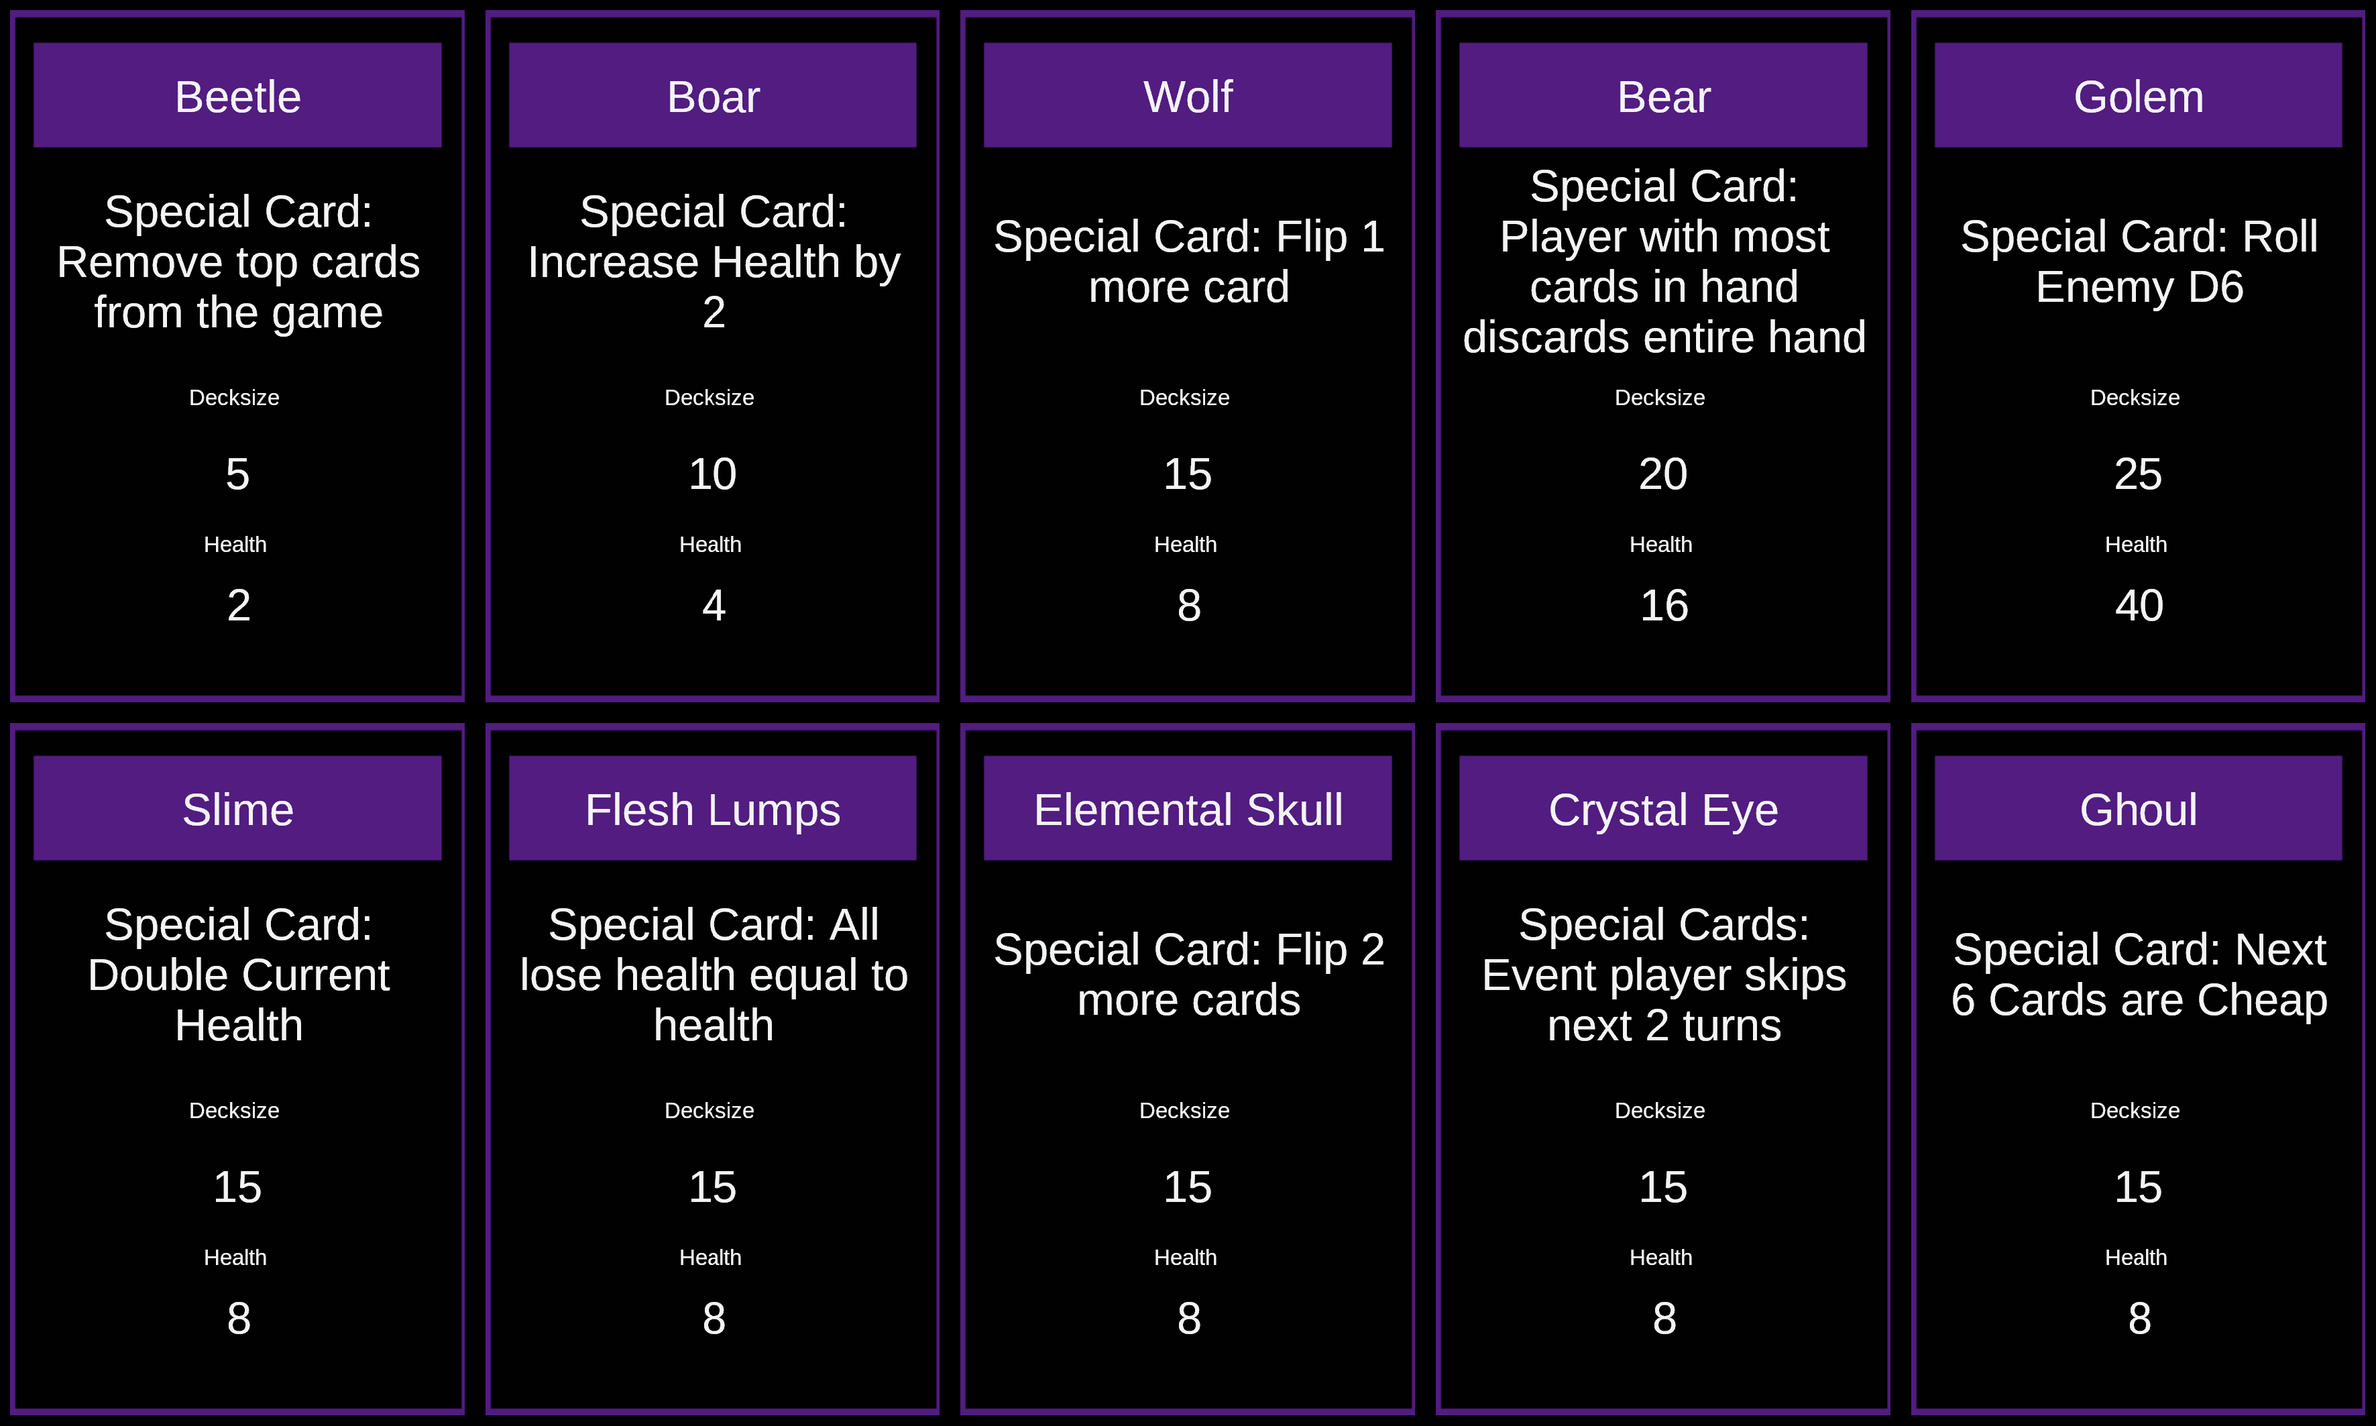
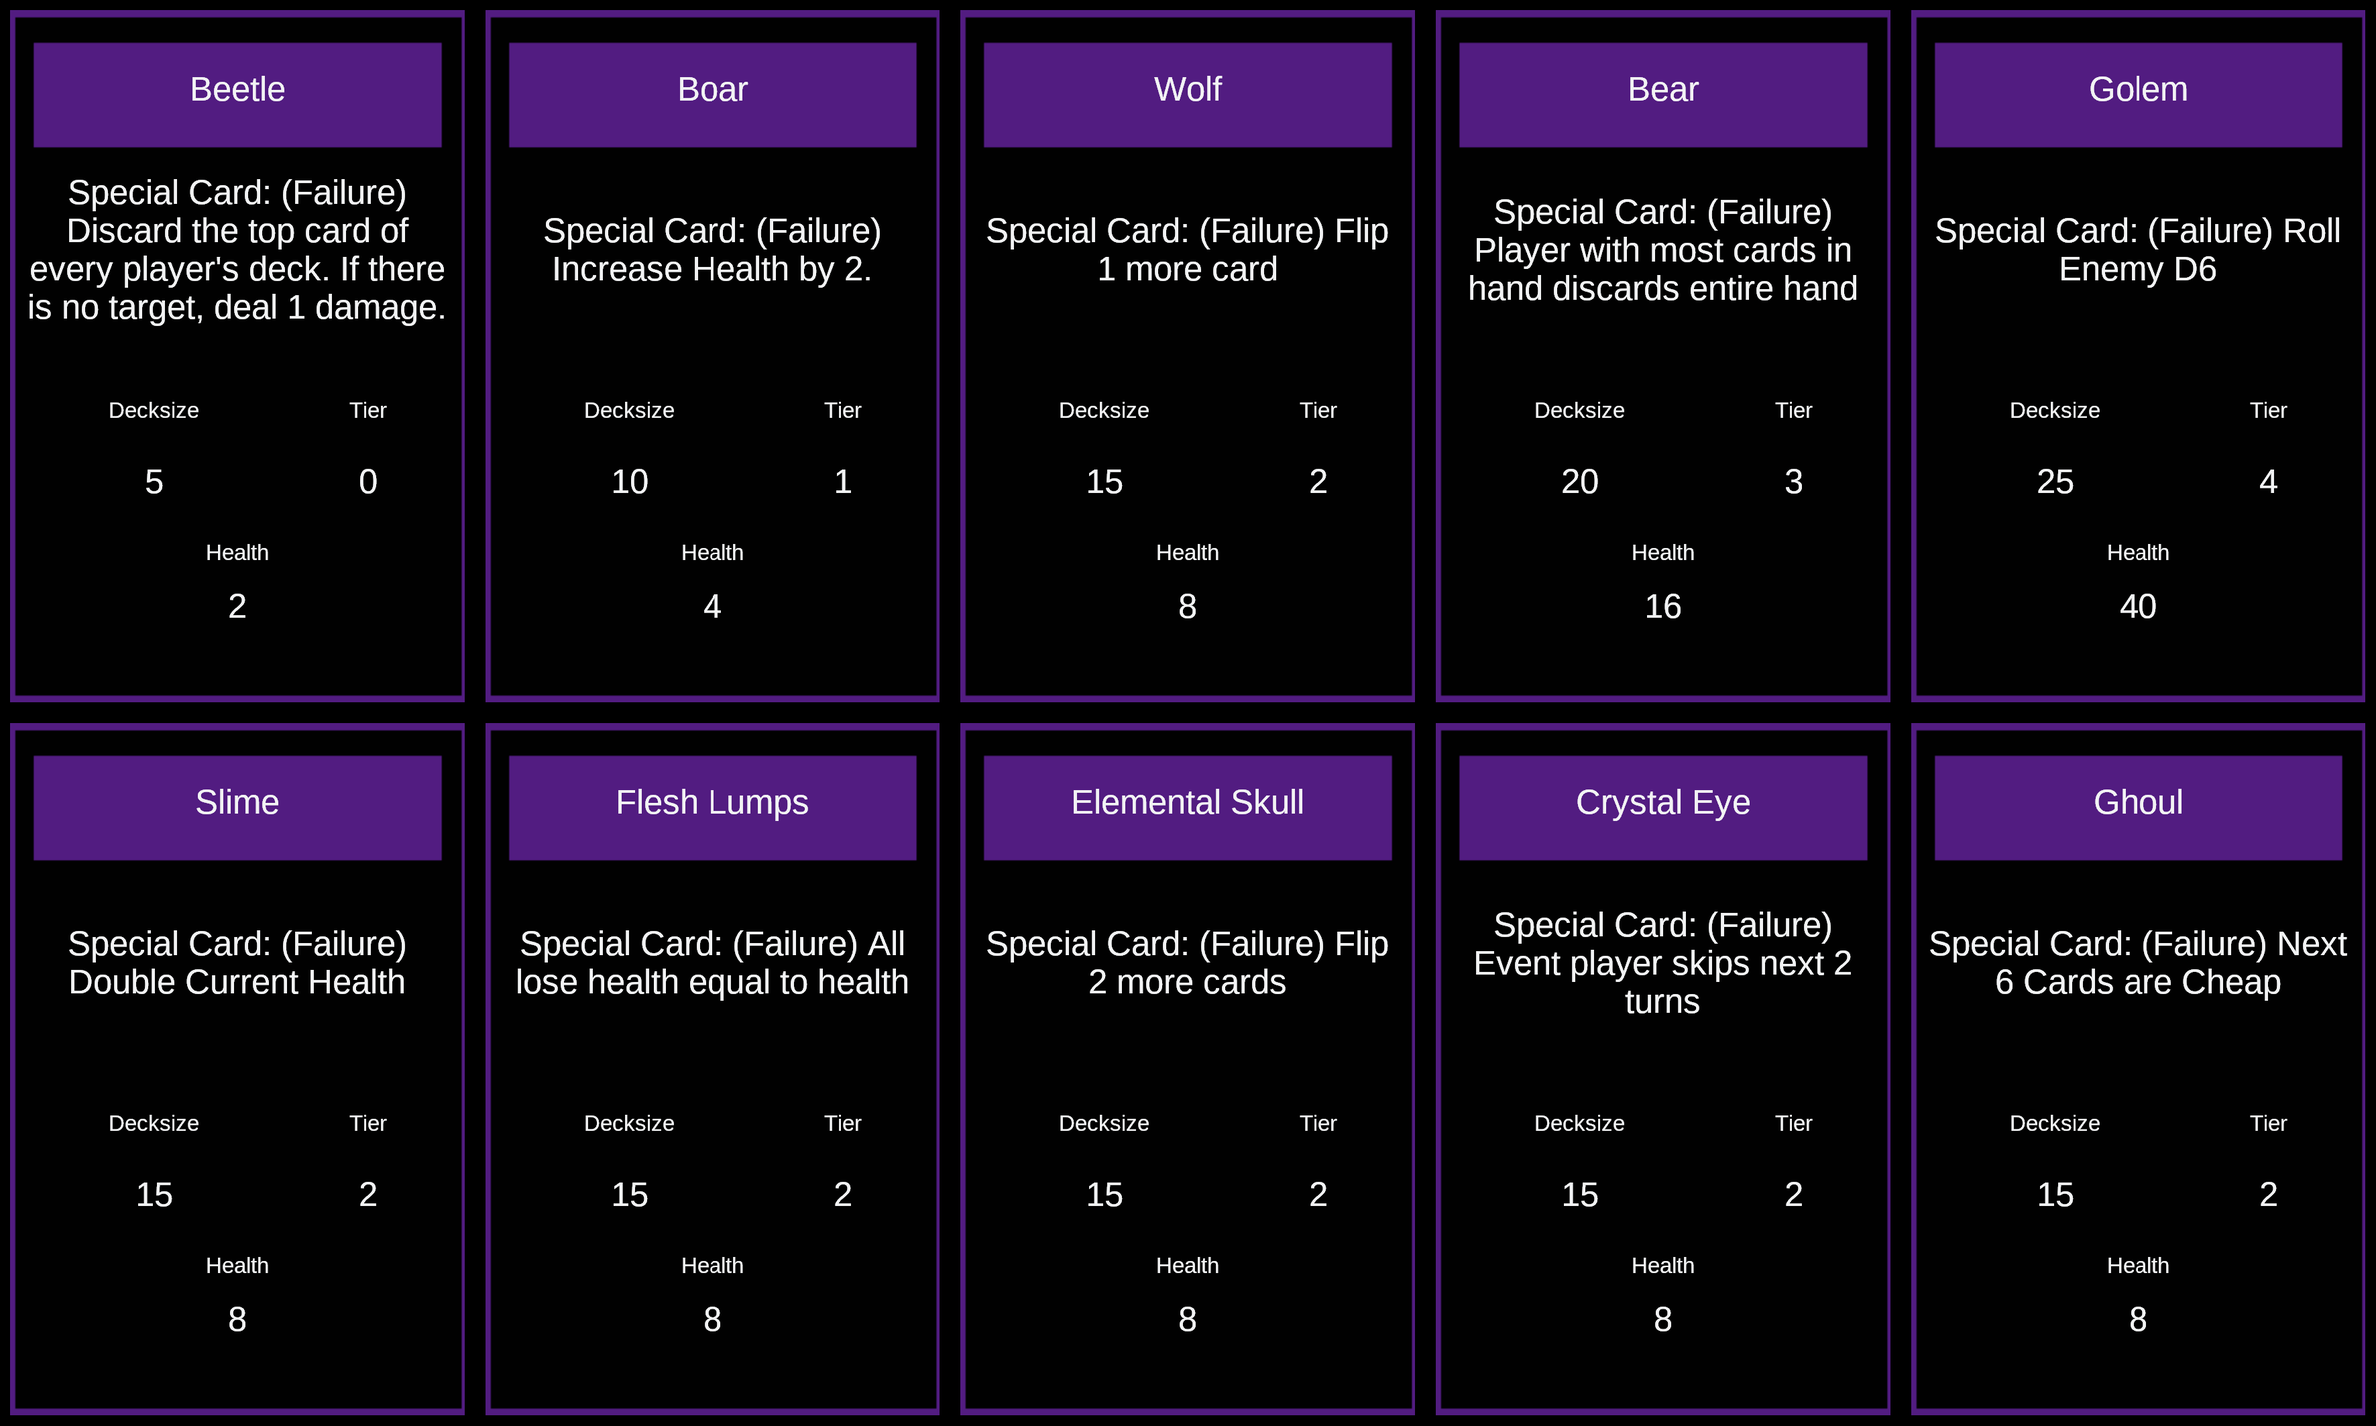
PlayTested

diff --git a/M_ Delerium Mechanics/Player Rules.md b/M_ Delerium Mechanics/Player Rules.md
@@ -1,33 +1,45 @@
-Health = 10
+### Stats
+**Health** = 10
+Once health reaches 0, place all cards in hand and deck face down under the discard pile
 
-STR = Number of STR cards in deck x 5
-AGI = Number of AGI cards in deck x 5
-PER = Number of PER cards in deck x 5
-MAG = Number of MAG cards in deck x 5
+Every card of a stat in the deck increases that stat by 1. Minimum stat is 1. The exception are Will cards. 
 
-Stamina = Str + Agi + Per
-Mana = Mana x 2
+**Strength** - deal 1 damage per card on stack, uses **STR**
+**Agility** - reduce 1 damage per card on stack, uses **AGI**
+**Perception** - look at the top **X** cards of the event deck where **X** is the number of perception cards on stack and reorder them, uses **PER**
+**Magic** - Wild, acts as the card the event need, uses the **MAG**
+**Will** - Wild, acts as the card the event needs, comes with a static number
+- Non-Will during will events are treated as will cards with 0 stat
 
-Score Tier : (Score)
-- (0) - Tier 0
-- (50) - Tier 1
-- (100) - Tier 2
-- (150) - Tier 3
-- (200) - Tier 4
-Unless otherwise stated, reaching these threshold values increase the tier
+### Keywords
+**Draw X** - Draw **X** cards
+
+**Discard X -** Choose **X** cards in hand and discard. Event cards can be discarded.
+
+**Recycle X** - Choose **X** of your cards to in the discard pile and put it back in your hand. For Recycle All cards, the player who plays this card chooses which event card to put at the bottom of the event deck. Certain event cards cannot be recycled.
+
+**Skip X** - For the next **X** turns, player cannot play a card
+
+**Take Turn X** - That player can play another **X** cards
+
+**Reverse** - On that player's turn, order moves in the opposite way
+
+**Discard Pile** - A pile that increases combo count, but does not activate any effects
+
+**Stack** - The pile that cards are played to. It increases combo count and activates effects.
 
 
-Normal Game Rules
+#### Normal Game Rules
 Turn order moves in a circle
+If a deck runs out, it is not shuffled until the current adventure is over
+If a card must discarded with no cards in hand, discard to card of deck
 
-Round Start:
+**Adventure Start:**
 Shuffle player decks
 Reset Sqecial Cards
 Shuffle Event Deck
 
-
-
-Stacking Event Rules
+**Stacking Event Rules**
 Game Start:
 - Special cards do not reset
 - The player who starts the event goes first.
@@ -40,11 +52,13 @@ Turns Start
 - Players can choose to not play a card
 
 During Turn
-- Conditions are checked immediately starting with the first player
+- Conditions are checked immediately starting with the active player
 
 Game End
 - If no cards are played for an entire rotation, that last card is considered a finisher
-- Overload is Checked
+- Activate effects from the bottom to the top
+- Death is checked
+- Score is calculated
 - Win Condition is Checked
 
 

diff --git a/M_ Delerium Mechanics/Cards - Enemy Deck.md b/M_ Delerium Mechanics/Cards - Enemy Deck.md
@@ -1,30 +1,20 @@
 Enemy has Health and can take damage at any time.
 
 How to Use:
-At the end of every combo, flip the top card of the enemy deck face up. That is the event. This card cannot be discarded. Enemy events ends when the deck is no longer able to flip more cards or the enemy health reaches zero.
+While an enemy event is in play, the enemy deck becomes the event deck. Remove all cards greater than the enemy tier from the deck and shuffle. 
+
+
+At the end of every combo, flip the top card of the enemy deck face up. That is the event. This card cannot be recycled. Enemy events ends when the deck is no longer able to flip more cards or the enemy health reaches zero.
 
 Attack (Strength) Cards
-Cards that reduce the player's score. Success of the event is only determined by the combined score of AGI, MAG and WILL cards. Failing reduces score by remaining threshold.
+Cards that deal damage. Success of the event is only determined by the combined score of AGI, MAG and WILL cards. Failing deals damage to all players equal to tier of enemy.
 
 Discard (Perception) Cards
-Cards that force player to discard. Success of the event is only determined by the combined score of PER, MAG and WILL cards. Failing discards cards from all equal to threshold score tier.
+Cards that force player to discard. Success of the event is only determined by the combined score of PER, MAG and WILL cards. Failing discards cards from all equal to tier of enemy.
 
 Escape (Agility) Cards
-Cards that reduces combat rewards. Success of the event is only determined by the combined score of STR, MAG and WILL cards. Failing reduces rewards by remaining threshold score tier.
+Cards that reduces combat rewards. Success of the event is only determined by the combined score of STR, MAG and WILL cards. Failing reduces rewards by tier of enemy.
 
 Ultimate (Magic) Cards
 Cards with a special effect should they succeed. This event is wild, any card can be used for it. Failing depends on what is on the card.
 
-
-
-Defeating an enemy allows crafting a card. The reward depending on each player's score tier.
-- (0) - Tier 0 - No Rewards
-- (500) - Tier 1 - Choose 1
-- (1000) - Tier 2 - Choose 2
-- (1500) - Tier 3 - Choose 3
-- (2000) - Tier 4 - Choose 4
-
-The player can choose between Element, Energy, Status, and Stat to guarantee a new card will have. The others will be randomly selected and created. The player then has the choice of taking that reward or not.
-
-Treasure Cards
-Enemy events drop treasure cards to the player with the highest score. That player may choose randomly between treasure cards, or pick their unique effect as a card.

diff --git a/M_ Delerium Mechanics/Cards - Event Deck.md b/M_ Delerium Mechanics/Cards - Event Deck.md
@@ -6,19 +6,38 @@ A deck of general obstacles
 - (2000) - Tier 4 - Impossible
 
 How to Use
-When making an event check, select the card that matches the difficulty of the check. Additionally, select the card that is one higher and one lower in difficulty. If there is none higher or lower, skip it. Then select one of those cards at random.
+When making an event check, select the card that matches the difficulty of the check. Additionally, select the card that is one higher and one lower in difficulty. If there is none higher or lower, skip it. Then, the event initiator will select one of those cards at random.
 
 How to Use, Roguelike
-Shuffle All Events together
-Pass an event by discarding a card
+Shuffle All Events together, then flip the top event card to the top of the stack. That will be the event. Skip players with no cards in hand. Once a stack is done, play the next event to the top of that stack.
+
+Pass an event by discarding a card on top of the event
 - Enemy events cannot be passed
 
 Initiate an event by playing a card
 - The card must match the event
+- The event card that is initiated cannot be recycled
 
-Reward cards as if the event was an enemy event except with no cards from the treasure pile
+Fail an event by not reaching the threshold
+- A failed event deals 1 damage to all participating players
+
+An event is cleared once the score threshold is reached. A card must be played to get event rewards. Decks are shuffled at the end of the event.
+
+Clearing an event allows crafting a card. The reward depending on each player's score.
+- (0) - Tier 0 - Random non-Treasure card
+- (500) - Choose 1
+- (1000) - Choose 2
+- (1500) - Choose 3
+- (2000) - Choose 4
+
+The player can choose between Element, Energy, Status, and Stat to guarantee a new card will have. The others will be randomly selected and created. The player then has the choice of taking that reward or not.
+
+Treasure Cards
+Enemy events drop treasure cards to the player with the highest score. That player may choose the treasure card effect or choose the unique ability of their Special.
 
 
+
+Basic Event Cards
 STR - Lift Power/ Roadblocks
 - Tier 0 - Sticks
 - Tier 1 - Rocks

diff --git a/M_ Delerium Mechanics/Cards.md b/M_ Delerium Mechanics/Cards.md
@@ -1,5 +1,5 @@
-Classes -> Gameplay
-- Combo - Keep Going
+### Energy -> Gameplay
+- **Entropy** (Combo) - Keep Going
 	- Draw 1
 	- Draw 2
 	- Discard 2, Draw 3
@@ -7,7 +7,7 @@ Classes -> Gameplay
 	- All Draw 2
 	- All Draw 3
 	 
-- Discard - Stop Going
+- **Release** (Discard) - Stop Going
 	- Target Discard 1
 	- Target Discard 2
 	- Target Discard 3, Recycle 1
@@ -15,7 +15,7 @@ Classes -> Gameplay
 	- All Discard 2
 	- All Discard 3
 
-- Recycle - Restart
+- **Order** (Recycle) - Restart
 	- Discard 1, Recycle 1
 	- Recycle 1
 	- Discard 2, Recycle 2
@@ -23,7 +23,7 @@ Classes -> Gameplay
 	- All Recycle 1
 	- All Recycle 2
 	
-- Turn - Change
+- **Contain** (Turn) - Change
 	- Reverse Turn
 	- Discard 3, Take Turn
 	- Target Reverse Turn
@@ -32,32 +32,18 @@ Classes -> Gameplay
 	- Target Take 2 Turns
 
 
-Elements -> Conditions
-- Skill Tiers (Score) - Multi
-	- (0) - Tier 0 - 1.5x
-	- (50) - Tier 1 - 2x
-	- (100) - Tier 2 - 3x
-	- (150) - Tier 3 - 4x
-	- (200) - Tier 4 - 5x
-	  
-- Fire - Score
-	- if Score > Tier Condition, Multiply score by Tier Multi/10
-- Earth - Defense
-	- if Score > Tier Condition, Unaffected by lower tier
-- Ice - Stop
-	- if Score > Tier Condition, Negate next tier below
+### Elements -> Conditions
+- Fire - Damage
+	- Deal 1 damage for every Fire Card
+- Earth - Score
+	- Block 1 damage for every Earth Card
+- Ice - Reset
+	- Reshuffle 1 target card for every Ice Card
 - Wind - Combo
-	- if Score > Tier Condition, increase combo count by tier
+	- Increase combo by 1 for ever Wind Card
 
-Status -> Disruption
-- Skill Tiers (Score) - Multi
-	- (0) - Tier 0 - 1.5x
-	- (50) - Tier 1 - 2x
-	- (100) - Tier 2 - 3x
-	- (150) - Tier 3 - 4x
-	- (200) - Tier 4 - 5x
-	
-	- Sickness/Fatigue/Numb/Blind : Status
-		- Divide stats by Tier Multi
-		- Turns = Skill Tier
-		- 0.5x Score
+### Status -> Disruption
+- Numb - The next STR card is discarded
+- Fatigue - The next AGI card is discarded
+- Blind - The next PER card is discarded
+- Sickness - The next MAG card is discarded

diff --git a/M_ Delerium Mechanics/Cards - Sqecial.md b/M_ Delerium Mechanics/Cards - Sqecial.md
@@ -1,5 +1,6 @@
+Special cards can be active or inactive. Special card are always inactive while in the stack. Special cards cannot be played while inactive. To activate a special card, the special condition must be met. Then, on your turn, you may play your special card as if it was a card in hand, but it cannot be discarded. Special cards stay inactive even between events.
 ### Time
-1. Special Card: Create a secondary event stack. Remove temporarily remove all cards in hand from play. Everyone draws 7 cards. Once that stack finishes, add the combo of that stack to this one.
+1. Special Card: Create a secondary event stack. Remove temporarily remove all cards in hand from play. Everyone draws 7 cards. Once that stack finishes, add the combo of that stack to this one. Shuffle all cards back into their decks.
 2. Special Effect: This card has the score of a finisher
 3. Special Condition: Combo Count Multiple of 10
 
@@ -12,18 +13,18 @@
 ### Multi
 1. Special Card: Search the deck
 1. Special Effect: Duplicate a card effect by Score Tier
-2. Special Condition: A Duplicate is played
+2. Special Condition: Two identical cards are played on top of each other
 
 
 ### Dark
 1. Special Card: (Passive) Must be targeted. Double the speed combo goes up. This passive breaks once hand is empty.
 2. Special Effect: Play this card on another's turn
-3. Special Condition: Lose all in a gauge
+3. Special Condition: Run out of cards in deck
 
 ### Bright
 1. Special Card: (Passive) Immune to effects. Breaks when a Target or All card is played.
 2. Special Effect: Play this card face down. It's a wild card. It's cheap.
-3. Special Condition: A player has zero cards in hand
+3. Special Condition: A player has zero cards in deck
 
 
 ### Light

diff --git a/M_ Delerium Mechanics/Score and Combo.md b/M_ Delerium Mechanics/Score and Combo.md
@@ -1,26 +1,28 @@
-Combo Tally is equal to the cards in discard pile
+Combo Tally is equal to the cards on the stack, including discarded
 
 Energy Cards can stack
 Element Cards can stack
-Only Sickness, Fatigue, Burn, and Blind can stack
+All Status Cards stack except Score
 
-Base Score = Stat + Stamina
+Base Score = Stat of the last card played
 
-Combo Multi (Stacks)
+**Advantage Multi (Stacks)**
 Status Combo = 1.5x
 Element Combo = 2x
 Energy Combo = 3x
 
-Combo Count Multi
-Count Multi = Combo Tally x 1.1
-Finisher Multi = Combo Tally (Ignore Combo Count Multi)
+(Energy) : Release -> Contain -> Order -> Entropy -> Release
+(Element) : Fire -> Wind -> Ice -> Earth -> Fire
+(Status) : Sickness -> Fatigue -> Numb -> Blind
 
-Status Multi
+**Combo Count Multi**
+Count Multi = 1+ Combo Tally x 0.1
+Finisher Multi = Combo Tally (Ignore Combo Count Multi)
+- If the last card is an event card, the original event is the finisher and the threshold increases
+
+**Status Multi**
 Score Status = 1x
 Sickness/Fatigue/Numb/Blind = 0.5x
 Cheap = 0x
 
-Magic Multi
-Magic Multi = 1 + (mana)/50
-
-Score = Base Score x Combo Count Multi x Status Multi x Magic Multi
+**Score** = Base Score x Combo Count Multi x Advantage Multi

diff --git a/M_ Delerium Mechanics/Score and Overload.md b/M_ Delerium Mechanics/Score and Overload.md
@@ -1,9 +1,11 @@
+Once 10000 total score is reached, search the event deck for the appropriate Overload. That is now the event. Shuffle all cards back into their respective decks and draw 5 cards. The player with the highest score goes first.
+
 ### Strength Overload
 Too much energy has been released in a single area. Wisps have spawned to deal with it. They suck all the energy out of the area on contact and distribute it elsewhere. You must burn all the energy yourself or have your energy taken. Harness the extra energy and overload yourself.
 
 Wisp Event Card
 10000 Score Threshold Mag
-Special Ability Guaranteed
+Treasure Guaranteed to all that reach threshold
 
 Draw 1 card at the beginning of every turn
 Double combo count

diff --git a/M_ Delerium Mechanics/Cards - Enemy Deck - Build.md b/M_ Delerium Mechanics/Cards - Enemy Deck - Build.md
@@ -17,8 +17,8 @@ Tier 4 - 25
 2 Enemy - Flip 2 Cards
 3 Enemy - Flip 3 Cards
 
-Similar stat enemy cards add the threshold
-Different stat enemy cards are played consecutive without reshuffling deck
+Similar stat enemy cards add to the threshold.
+Different stat enemy cards are played on the stack and must also be dealt with.
 
 ### Random Event Modifier
 - Conditions
